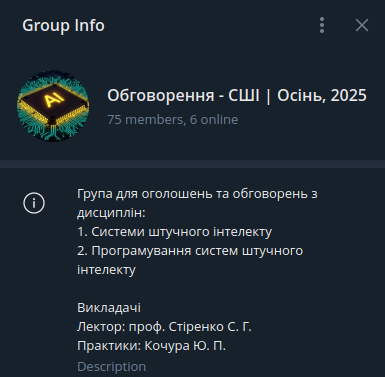
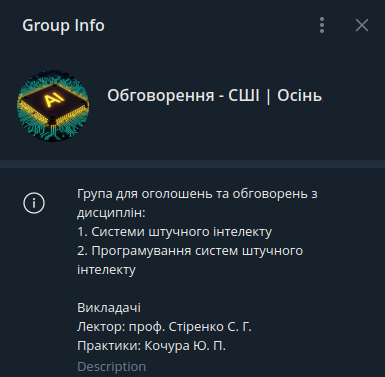
upd26

Changed region(s): [[0.2805, 0.2918, 0.6234, 0.3501], [0.8416, 0.2334, 0.9662, 0.2918]]

diff --git a/index.html b/index.html
@@ -1,7 +1,7 @@
 <!DOCTYPE html>
 <html>
   <head>
-    <title>Осінь 2025: Програмування систем штучного інтелекту</title>
+    <title>Осінь 2026: Програмування систем штучного інтелекту</title>
     <meta http-equiv="Content-Type" content="text/html; charset=UTF-8"/>
     <link rel="stylesheet" href="./assets/katex.min.css">
     <link rel="stylesheet" href="./assets/style2.css">

diff --git a/details.md b/details.md
@@ -2,7 +2,7 @@ class: middle, center, title-slide
 
 # Системи штучного інтелекту
 
-Осінь 2025 р.
+Осінь 2026 р.
 
 <br><br>
 Кочура Юрій Петрович<br>
@@ -85,7 +85,7 @@ class: middle
 
 - Навчитись визначати типи проблем до яких застосовуються методи штучного інтелекту.
 - Дізнатись про основні методи та інструменти, необхідні для навчання моделей ШІ.
-- Отримати досвід розробки простих систем, які навчаються на досвіді.
+- Отримати досвід розробки простих систем, які навчаються на основі даних.
 
 ---
 
@@ -123,6 +123,26 @@ class: middle
 .center.width-40[![](figures/course-details/telegram.png)]
 .center.smaller-x[Оголошення + Обговорення]
 
+
+---
+
+class: middle
+
+# Що робити, якщо розпочалась повітряна тривога?
+
+.alert[📢 У випадку оголошення повітряної тривоги  &mdash; залиште заняття та .bold[прямуйте до найближчого укриття].]
+
+---
+
+
+
+class: middle 
+# Вебсторінка з практик
+
+
+Навчальні матеріали та завдання з практик будуть розміщуватись на цій вебсторінці:  [https://courses-cs-kpi.github.io/ai-lab-26fall/](https://courses-cs-kpi.github.io/ai-lab-26fall/)
+
+.center.width-80[![](figures/course-details/web.png)]
 
 ---
 
